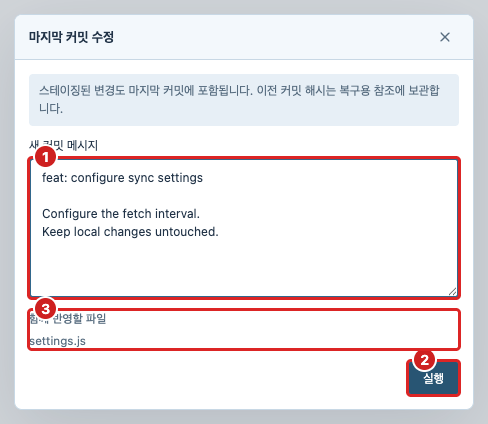
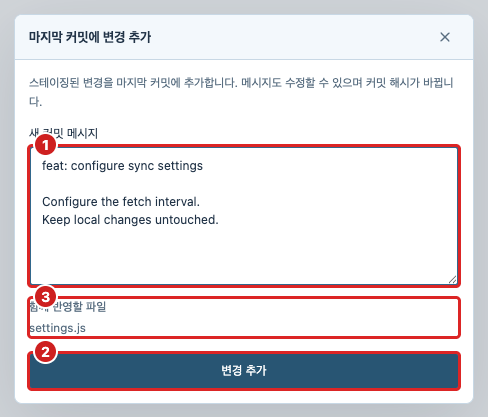
feat: separate message-only amendment from staged changes

diff --git a/public/advanced.js b/public/advanced.js
@@ -1,9 +1,9 @@
 Object.assign(commands,{
  resetPreview:['커밋으로 Reset',[['ref','대상 커밋','commits']]],resetJournal:['Reset 실행 취소·다시 실행',[]],
  discardPreview:['파일 변경 버리기',[['name','파일','files']]],recoveryList:['버린 변경 복구',[]],
- hunks:['부분 스테이징',[['name','파일','files']]],readText:['파일 편집',[['name','파일','files']]],conflictRead:['충돌 편집기',[['name','충돌 파일','conflicts']]],diffSides:['좌우 파일 비교',[['name','파일','files']]],ignoreFile:['파일 무시',[['name','추적하지 않는 파일 경로']]],rebasePlan:['인터랙티브 리베이스',[['base','편집할 커밋 바로 이전 참조','commits',false,'HEAD~3']]],amend:['마지막 커밋 수정',[['message','새 커밋 메시지','commitMessage']],'스테이징된 변경도 마지막 커밋에 포함됩니다. 이전 커밋 해시는 복구용 참조에 보관합니다.'],searchHistory:['전체 이력 메시지 검색',[['query','검색어']]],worktreeLock:['Worktree 잠금',[['path','작업 폴더','worktrees']]],worktreeUnlock:['Worktree 잠금 해제',[['path','작업 폴더','worktrees']]],submodules:['Submodule 상태',[]],submoduleUpdate:['Submodule 초기화·갱신',[],'저장소에 설정된 하위 저장소를 다운로드합니다.'],profileRead:['저장소 작성자 설정',[]]
+ hunks:['부분 스테이징',[['name','파일','files']]],readText:['파일 편집',[['name','파일','files']]],conflictRead:['충돌 편집기',[['name','충돌 파일','conflicts']]],diffSides:['좌우 파일 비교',[['name','파일','files']]],ignoreFile:['파일 무시',[['name','추적하지 않는 파일 경로']]],rebasePlan:['인터랙티브 리베이스',[['base','편집할 커밋 바로 이전 참조','commits',false,'HEAD~3']]],amendMessage:['커밋 메시지 수정',[['message','새 커밋 메시지','commitMessage']]],amend:['마지막 커밋에 변경 추가',[['message','새 커밋 메시지','commitMessage']]],searchHistory:['전체 이력 메시지 검색',[['query','검색어']]],worktreeLock:['Worktree 잠금',[['path','작업 폴더','worktrees']]],worktreeUnlock:['Worktree 잠금 해제',[['path','작업 폴더','worktrees']]],submodules:['Submodule 상태',[]],submoduleUpdate:['Submodule 초기화·갱신',[],'저장소에 설정된 하위 저장소를 다운로드합니다.'],profileRead:['저장소 작성자 설정',[]]
 });
-categories.push(['고급 편집',['resetPreview','resetJournal','discardPreview','recoveryList','hunks','readText','diffSides','conflictRead','ignoreFile','rebasePlan','amend','searchHistory']],['확장 · 설정',['worktreeLock','worktreeUnlock','submodules','submoduleUpdate','profileRead']]);
+categories.push(['고급 편집',['resetPreview','resetJournal','discardPreview','recoveryList','hunks','readText','diffSides','conflictRead','ignoreFile','rebasePlan','amendMessage','amend','searchHistory']],['확장 · 설정',['worktreeLock','worktreeUnlock','submodules','submoduleUpdate','profileRead']]);
 const advancedDialog=el('dialog');advancedDialog.className='advanced-dialog';advancedDialog.setAttribute('aria-label','고급 Git 편집');document.body.append(advancedDialog);
 function advancedFrame(title,kind='compact'){advancedDialog.dataset.dialogKind=kind;advancedDialog.replaceChildren();const body=el('div',undefined,'advanced-body');PgitUI.dialogFrame(advancedDialog,{title,body,canClose:()=>!working});if(!advancedDialog.open)advancedDialog.showModal();return body}
 async function applyAdvanced(action,data){if(working)return false;working=true;controls();try{state=await api(action,data);render();notify('변경을 적용했습니다.');return true}catch(e){notify(e.message);const error=el('p',e.message,'command-error');error.setAttribute('role','alert');advancedDialog.querySelector('.advanced-body')?.prepend(error);try{state=await api('state',{limit:historyLimit});render()}catch{}return false}finally{working=false;controls()}}
@@ -32,7 +32,7 @@ if(key==='rebasePlan'){const result=await api(key,data);const body=advancedFrame
 if(key==='profileRead'){const result=await api(key);const body=advancedFrame('이 저장소의 작성자');PgitCommandHelp.mount(body,'profileRead');const form=el('form');PgitUI.commandFormLayout(form);const inputs={};for(const name of ['name','email']){const label=el('label',name==='name'?'이름':'이메일');const input=el('input');input.type='text';input.required=true;input.value=result[name];input.setAttribute('aria-label',label.textContent);inputs[name]=input;label.append(input);form.append(label)}const sign=el('input');sign.type='checkbox';sign.checked=result.sign;const label=PgitUI.checkboxField('Git에 설정된 키로 커밋 서명',sign).element;const save=el('button','저장','primary');form.append(label,el('p','서명 키와 에이전트는 기존 Git 설정을 사용합니다.'),save);form.onsubmit=async e=>{e.preventDefault();if(await applyAdvanced('profileSave',{name:inputs.name.value,email:inputs.email.value,sign:sign.checked}))advancedDialog.close()};body.append(form);return}
 }catch(e){notify(e.message)}}
 const baseOpenCommand=openCommand;openCommand=async function(key){if(['profileRead','resetJournal','recoveryList'].includes(key)&&state&&!working){panel.close();await openAdvanced(key,{});const body=advancedDialog.querySelector('.advanced-body');if(body)PgitCommandHelp.mount(body,key);return}await baseOpenCommand(key);if(['resetPreview','resetJournal','discardPreview','recoveryList','hunks','readText','conflictRead','diffSides','rebasePlan'].includes(key)){const form=panel.querySelector('form');if(form)form.onsubmit=e=>{e.preventDefault();const data=Object.fromEntries(new FormData(form));openAdvanced(key,data)}}};
-const beforeAdvancedApi=api;api=function(action,data={}){if(action==='amend'&&!data.head)data={...data,head:state?.head};return beforeAdvancedApi(action,data)};
+const beforeAdvancedApi=api;api=function(action,data={}){if(['amend','amendMessage'].includes(action)&&!data.head)data={...data,head:state?.head};return beforeAdvancedApi(action,data)};
 // File actions stay close to the selected file.
 const fileActions=el('div',undefined,'file-actions');for(const [key,label] of [['discardPreview','변경 버리기'],['hunks','블록 스테이징'],['readText','편집'],['diffSides','좌우 비교'],['conflictRead','충돌 해결']]){const b=el('button',label);b.dataset.fileAction=key;if(key==='hunks')b.title='파일의 변경 중 원하는 블록이나 줄만 골라 스테이징합니다.';if(key==='readText')b.title='실제 작업 폴더 파일을 수정·저장합니다. 자동으로 스테이징하거나 커밋하지 않습니다.';b.onclick=()=>selected?openAdvanced(key,{name:selected,staged}):notify('파일을 선택하세요.');fileActions.append(b)}$('diff').before(fileActions);
 // Recent local workspaces are stored on this device only.
@@ -41,6 +41,7 @@ const beforeRecentRender=render;render=function(){beforeRecentRender();if(state)
 // Contextual Git actions preserve the graph as the main navigation surface.
 async function contextualCommand(key,values={}){
  if(working)return;
+ if(key==='amendMessage'&&values.head){await openCommand(key);if(panel.querySelector('form')?.dataset.amendHead!==values.head){panel.close();notify('HEAD가 변경되었습니다.')}return}
  if(key==='branchSwitch'&&values.name){
   if(values.name===state?.branch)return;
   if(await mutate(key,values)){scope=null;selectedHistoryRef=null;activeCommit=null;render();notify('브랜치 전환 완료')}return;
@@ -51,8 +52,8 @@ async function contextualCommand(key,values={}){
   try{const result=await api(key,values);if(!body.isConnected||!advancedDialog.open)return;if(key==='mergePreview')renderMergePreview(output,result);else output.replaceChildren(el('pre',result,'command-output'))}catch(error){if(body.isConnected)output.replaceChildren(PgitUI.message(error.message,{error:true}))}return;
  }
  await openCommand(key);for(const [name,value] of Object.entries(values)){const input=$('command-'+name);if(input){if(input.selectReference)await input.selectReference(value);else if(input.dataset.commitPicker)await PgitCommitPicker.select(input,value);else{input.value=value;input.dispatchEvent(new Event('change',{bubbles:true}))}}}}
-function contextActions(title,items){const body=advancedFrame(title,'menu');for(const [key,values] of items){const b=el('button',commands[key][0],'command-option');if(['branchSwitch','branchDelete'].includes(key)&&values.name&&(state?.branch===values.name||state?.worktrees?.some(w=>w.branch==='refs/heads/'+values.name))){b.disabled=true}b.onclick=()=>{advancedDialog.close();contextualCommand(key,values)};body.append(b)}}
+function contextActions(title,items){const body=advancedFrame(title,'menu');for(const [key,values] of items){const b=el('button',commands[key][0],'command-option');if(['branchSwitch','branchDelete'].includes(key)&&values.name&&(state?.branch===values.name||state?.worktrees?.some(w=>w.branch==='refs/heads/'+values.name))){b.disabled=true}if(key==='amendMessage'&&values.head!==state?.head){b.disabled=true;b.title='현재 브랜치의 마지막 커밋만 수정할 수 있습니다.'}b.onclick=()=>{advancedDialog.close();contextualCommand(key,values)};body.append(b)}}
 $('branches').addEventListener('contextmenu',event=>{const button=event.target.closest('.branchitem');if(!button)return;event.preventDefault();const name=button.dataset.ref.slice('refs/heads/'.length);contextActions(name,[['mergePreview',{ref:name}],['branchSwitch',{name}],['branchCreate',{ref:name}],['branchRename',{name}],['merge',{ref:name}],['rebase',{ref:name}],['branchDelete',{name}]])});
 $('branches').addEventListener('dblclick',event=>{const button=event.target.closest('.branchitem');if(button)contextualCommand('branchSwitch',{name:button.dataset.ref.slice('refs/heads/'.length)})});
-$('history').addEventListener('contextmenu',event=>{const row=event.target.closest('.historyrow');if(!row)return;event.preventDefault();activeCommit=row.dataset.hash;contextActions(activeCommit.slice(0,7),[['resetPreview',{ref:activeCommit}],['branchCreate',{ref:activeCommit}],['tagCreate',{ref:activeCommit}],['cherryPick',{ref:activeCommit}],['revert',{ref:activeCommit}],['compare',{to:activeCommit}],['rebasePlan',{base:activeCommit}]])});
+$('history').addEventListener('contextmenu',event=>{const row=event.target.closest('.historyrow');if(!row)return;event.preventDefault();activeCommit=row.dataset.hash;contextActions(activeCommit.slice(0,7),[['amendMessage',{head:activeCommit}],['resetPreview',{ref:activeCommit}],['branchCreate',{ref:activeCommit}],['tagCreate',{ref:activeCommit}],['cherryPick',{ref:activeCommit}],['revert',{ref:activeCommit}],['compare',{to:activeCommit}],['rebasePlan',{base:activeCommit}]])});
 const beforeWipRender=renderHistory;renderHistory=function(){beforeWipRender();if(state?.files.length){const wip=el('button','WIP · '+state.files.length+'개 변경 — 작업 폴더 열기','wip-row');wip.onclick=()=>tab('changes');$('historyScroll')?.prepend(wip)}};

diff --git a/public/workspace.js b/public/workspace.js
@@ -52,10 +52,10 @@ async function showCommandRead(key,data={}){
  const valid=()=>panel.open&&body.isConnected&&state?.root===root;
  try{const result=await api(key,data);if(!valid())return;const text=typeof result==='string'?result:JSON.stringify(result,null,2);output.replaceChildren(text?.trim()?el('pre',text,'command-output'):PgitUI.message('표시할 항목이 없습니다.'))}catch(error){if(valid())output.replaceChildren(PgitUI.message(error.message,{error:true}))}
 }
-async function openCommand(key){if(working)return;if(!state&&!['init','clone'].includes(key)){notify('먼저 저장소를 여세요.');return}if(key==='remoteList')return showRemoteAddresses();if(['reflog','submodules'].includes(key))return showCommandRead(key);let amend=null;if(key==='amend'){try{amend=await api('amendInfo')}catch(e){notify(e.message);return}}const [title,fields,warning]=commands[key];panel.dataset.dialogKind='form';panel.replaceChildren();const form=el('form',undefined,'command-body');form.dataset.command=key;if(key!=='merge')PgitUI.commandFormLayout(form,{inline:fields.length===1&&!['cherryPick','init','clone'].includes(key)&&fields[0][2]!=='commitMessage'});PgitUI.dialogFrame(panel,{title,body:form,canClose:()=>!working});PgitCommandHelp.mount(form,key);if(warning)form.append(el('p',warning,'command-notice'));const error=el('p',undefined,'command-error');error.setAttribute('role','alert');const inputs=amend?{head:{value:amend.head}}:{};let tracked=[];if(fields.some(f=>f[2]==='files'))try{tracked=await api('trackedFiles')}catch(e){notify(e.message);return}
+async function openCommand(key){if(working)return;if(!state&&!['init','clone'].includes(key)){notify('먼저 저장소를 여세요.');return}if(key==='remoteList')return showRemoteAddresses();if(['reflog','submodules'].includes(key))return showCommandRead(key);let amend=null;if(['amend','amendMessage'].includes(key)){try{amend=await api('amendInfo')}catch(e){notify(e.message);return}}const [title,fields,warning]=commands[key];panel.dataset.dialogKind='form';panel.replaceChildren();const form=el('form',undefined,'command-body');form.dataset.command=key;if(amend)form.dataset.amendHead=amend.head;if(key!=='merge')PgitUI.commandFormLayout(form,{inline:fields.length===1&&!['cherryPick','init','clone'].includes(key)&&fields[0][2]!=='commitMessage'});PgitUI.dialogFrame(panel,{title,body:form,canClose:()=>!working});PgitCommandHelp.mount(form,key);if(warning)form.append(el('p',warning,'command-notice'));const error=el('p',undefined,'command-error');error.setAttribute('role','alert');const inputs=amend?{head:{value:amend.head}}:{};let tracked=[];if(fields.some(f=>f[2]==='files'))try{tracked=await api('trackedFiles')}catch(e){notify(e.message);return}
 for(const [name,label,source,optional,initial] of fields){const choices=source==='pullStrategies'?[['ff-only','Fast-forward only'],['merge','Merge'],['rebase','Rebase']]:source==='mergeRefs'?[...state.branches.map(b=>[b.name,b.name]),...state.refs.filter(r=>r.name.startsWith('refs/remotes/')&&!r.name.endsWith('/HEAD')).map(r=>[r.name,r.name.slice(13)])]:source==='branches'?state.branches.map(b=>[b.name,b.name]):source==='remotes'?state.remotes.map(n=>[n,n]):source==='stashes'?state.stashes.map(s=>[s.hash,s.name+' · '+s.title]):source==='tags'?state.refs.filter(r=>r.name.startsWith('refs/tags/')).map(r=>[r.name.slice(10),r.name.slice(10)]):source==='conflicts'?state.files.filter(f=>f.conflict).map(f=>[f.name,f.name]):source==='files'?tracked.map(n=>[n,n]):source==='worktrees'?state.worktrees.filter(w=>w.path!==state.root).map(w=>[w.path,w.branch?.replace(/^refs\/heads\//,'')||PgitPaths.basename(w.path)]):null;
 const input=source==='commits'?PgitCommitPicker.create(state,initial||activeCommit||state.head):el(source==='commitMessage'?'textarea':choices?'select':'input');input.id='command-'+name;input.name=name;if(name==='url')input.placeholder='https://gitlab.example.com/team/project.git';input.required=!optional;if(source==='commitMessage'){input.value=amend.message;input.className='commit-message-input';input.rows=6;input.maxLength=4000}else if(source==='commits'){}else if(choices){for(const [v,t] of choices){const option=el('option',t);option.value=v;input.append(option)}if(!choices.length){input.append(el('option','항목 없음'));input.disabled=true}}else{input.type='text';input.value=source==='selected'?activeCommit||'':source||''}const lab=el('label',label);lab.htmlFor=input.id;form.append(lab,input);inputs[name]=input}
-if(amend){const summary=el('div',undefined,'amend-summary');summary.append(el('strong',amend.files.length?'함께 반영할 파일':'스테이징된 변경 없음 · 메시지만 수정'));for(const name of amend.files)summary.append(el('div',name,'literal-data'));form.append(summary)}const submit=el('button',key==='init'?'만들기':key==='clone'?'복제':key==='branchSwitch'?'브랜치 전환':key==='resetPreview'?'변경 내용 확인':'실행','primary');submit.type='submit';submit.disabled=Object.values(inputs).some(i=>i.disabled);form.append(error,submit);form.onsubmit=async e=>{e.preventDefault();if(working)return;const data=Object.fromEntries(Object.entries(inputs).map(([k,v])=>[k,v.value]));if(key==='merge'&&form.mergePreview){data.expectedHead=form.mergePreview.head;data.expectedTarget=form.mergePreview.target}submit.disabled=true;working=true;controls();try{const result=await api(key,{...data,limit:historyLimit});if(typeof result==='string'||Array.isArray(result)){panel.dataset.dialogKind=key==='remoteList'?'list':'output';panel.replaceChildren();const pre=el('pre',typeof result==='string'?result:result.join('\n'),'command-output');PgitUI.dialogFrame(panel,{title,body:pre,canClose:()=>!working})}else{state=result;scope=null;render();panel.close();notify(title+' 완료')}}catch(e){error.textContent=e.message;try{if(state){state=await api('state',{limit:historyLimit});render()}}catch{} }finally{working=false;controls();submit.disabled=false}};if(['init','clone'].includes(key))PgitFolderPicker.mount({input:inputs.path,submit,error,url:inputs.url});PgitReferenceFields.mount({key,form,inputs,submit,error,snapshot:state});if(!panel.open)panel.showModal();Object.values(inputs).find(input=>typeof input.focus==='function')?.focus();}
+if(amend){const summary=el('div',undefined,'amend-summary');summary.append(el('strong',key==='amendMessage'?'스테이징된 변경은 포함하지 않습니다.':amend.files.length?'함께 반영할 파일':'스테이징한 변경이 없습니다.'));for(const name of key==='amendMessage'?[]:amend.files)summary.append(el('div',name,'literal-data'));form.append(summary)}const submit=el('button',key==='amendMessage'?'메시지 수정':key==='amend'?'변경 추가':key==='init'?'만들기':key==='clone'?'복제':key==='branchSwitch'?'브랜치 전환':key==='resetPreview'?'변경 내용 확인':'실행','primary');submit.type='submit';submit.disabled=(key==='amend'&&!amend.files.length)||Object.values(inputs).some(i=>i.disabled);form.append(error,submit);form.onsubmit=async e=>{e.preventDefault();if(working)return;const data=Object.fromEntries(Object.entries(inputs).map(([k,v])=>[k,v.value]));if(key==='merge'&&form.mergePreview){data.expectedHead=form.mergePreview.head;data.expectedTarget=form.mergePreview.target}submit.disabled=true;working=true;controls();try{const result=await api(key,{...data,limit:historyLimit});if(typeof result==='string'||Array.isArray(result)){panel.dataset.dialogKind=key==='remoteList'?'list':'output';panel.replaceChildren();const pre=el('pre',typeof result==='string'?result:result.join('\n'),'command-output');PgitUI.dialogFrame(panel,{title,body:pre,canClose:()=>!working})}else{state=result;scope=null;render();panel.close();notify(title+' 완료')}}catch(e){error.textContent=e.message;try{if(state){state=await api('state',{limit:historyLimit});render()}}catch{} }finally{working=false;controls();submit.disabled=false}};if(['init','clone'].includes(key))PgitFolderPicker.mount({input:inputs.path,submit,error,url:inputs.url});PgitReferenceFields.mount({key,form,inputs,submit,error,snapshot:state});if(!panel.open)panel.showModal();Object.values(inputs).find(input=>typeof input.focus==='function')?.focus();}
 function renderExtras(){if(!state)return;syncLabel.textContent=state.upstream?`${state.upstream} · ↑${state.ahead} ↓${state.behind}`:'추적 브랜치 없음';banner.replaceChildren();banner.hidden=!state.operation;if(state.operation){banner.append(el('strong',state.operation+' 진행 중'));const conflicts=state.files.filter(f=>f.conflict);if(conflicts.length){const edit=el('button','충돌 편집기 열기');edit.onclick=()=>conflicts.length===1?openAdvanced('conflictRead',{name:conflicts[0].name}):openCommand('conflictRead');banner.append(edit)}for(const key of ['continue','abort']){const b=el('button',commands[key][0]);b.disabled=key==='continue'&&!!conflicts.length;b.onclick=()=>openCommand(key);banner.append(b)}}extrasPanel.replaceChildren();const remoteRefs=state.refs.filter(r=>r.name.startsWith('refs/remotes/')&&!r.name.endsWith('/HEAD'));extrasPanel.append(el('div','REMOTE','caption'));for(const remote of [...new Set(remoteRefs.map(r=>r.name.slice(13).split('/')[0]))]){const group=el('details');group.className='remote-group';group.open=true;const summary=el('summary');summary.append(el('span',remote,'branch-folder-name literal-data'),el('span',String(remoteRefs.filter(r=>r.name.startsWith('refs/remotes/'+remote+'/')).length),'folder-count'));const children=el('div',undefined,'branch-folder-children');group.append(summary,children);for(const r of remoteRefs.filter(r=>r.name.startsWith('refs/remotes/'+remote+'/'))){const b=el('button',r.name.slice(14+remote.length),'nav remote-branch');b.dataset.ref=r.name;b.title=r.name.slice(13);b.onclick=()=>chooseHistoryRef(r.name,r.hash);children.append(b)}extrasPanel.append(group)}if(!remoteRefs.length)extrasPanel.append(el('div','원격 브랜치 없음','branch-empty'));extrasPanel.append(el('div','TAGS','caption'));for(const r of state.refs.filter(r=>r.name.startsWith('refs/tags/'))){const b=el('button',undefined,'nav sidebar-ref tag-ref');b.append(el('span',r.name.slice(10),'literal-data'));b.dataset.ref=r.name;b.title=r.name.slice(10);b.prepend(PgitIcons.icon('tag'));b.onclick=()=>chooseHistoryRef(r.name,r.hash);extrasPanel.append(b)}extrasPanel.append(el('div',`STASHES · ${state.stashes.length}`,'caption'));for(const s of state.stashes){const b=el('button',undefined,'nav sidebar-ref stash-ref');b.append(PgitIcons.icon('stash'),el('span',s.title,'literal-data'));b.title=s.name+' · '+s.title;b.dataset.stash=s.hash;b.onclick=()=>contextualCommand('stashDiff',{hash:s.hash});extrasPanel.append(b)}}
 const baseRender=render;render=function(){baseRender();renderExtras();syncHistoryScope()};
 const baseControls=controls;controls=function(){baseControls();document.querySelectorAll('[data-repo-command]').forEach(b=>b.disabled=working||!state)};

diff --git a/public/command-help.js b/public/command-help.js
@@ -361,8 +361,16 @@ const catalog={
     "es": "Planifica y aplica reordenar, renombrar, combinar u omitir commits; se reescribe el historial.",
     "fr": "Planifie et applique la réorganisation, le renommage, la fusion ou la suppression de commits ; l’historique est réécrit."
   },
+  "amendMessage": {
+    "ko": "마지막 커밋의 메시지만 수정합니다. 파일 내용과 스테이징된 변경은 유지되며 커밋 해시는 바뀝니다.",
+    "en": "Change only the last commit message. File contents and staged changes are preserved; the commit hash changes.",
+    "ja": "最後のコミットメッセージのみ変更します。ファイルとステージ済み変更は保持され、ハッシュが変わります。",
+    "zh-CN": "仅修改最后一个提交的消息。文件和暂存更改保持不变，提交哈希会改变。",
+    "es": "Cambia solo el mensaje del último commit. Conserva archivos y cambios preparados; cambia el hash.",
+    "fr": "Modifie uniquement le message du dernier commit. Les fichiers et changements indexés sont conservés ; le hash change."
+  },
   "amend": {
-    "ko": "마지막 커밋의 기존 메시지를 수정합니다. 스테이징된 변경도 함께 포함되며 커밋 해시가 바뀝니다.",
+    "ko": "스테이징된 변경을 마지막 커밋에 추가합니다. 메시지도 수정할 수 있으며 커밋 해시가 바뀝니다.",
     "en": "Edit the last commit’s message, including staged changes; its hash changes.",
     "ja": "最後のコミットのメッセージを編集します。ステージ済み変更も含まれ、ハッシュが変わります。",
     "zh-CN": "修改最后一个提交的消息，同时包含暂存的更改，提交哈希会改变。",

diff --git a/public/locales.js b/public/locales.js
@@ -40,6 +40,12 @@ const languages=[
 ];
 const columns=["ja","zh-CN","es","fr"];
 const messages={
+"Edit commit message":["コミットメッセージを編集", "修改提交消息", "Editar mensaje del commit", "Modifier le message du commit"],
+"Add changes to last commit":["最後のコミットに変更を追加", "向最后一个提交添加更改", "Añadir cambios al último commit", "Ajouter des changements au dernier commit"],
+"Staged changes are not included.":["ステージ済み変更は含まれません。", "不包含暂存的更改。", "No se incluyen los cambios preparados.", "Les changements indexés ne sont pas inclus."],
+"Update message":["メッセージを更新", "更新消息", "Actualizar mensaje", "Modifier le message"],
+"Add changes":["変更を追加", "添加更改", "Añadir cambios", "Ajouter les changements"],
+"Only the current branch’s last commit can be edited here.":["ここでは現在のブランチの最後のコミットのみ編集できます。", "此处只能修改当前分支的最后一个提交。", "Aquí solo puedes editar el último commit de la rama actual.", "Seul le dernier commit de la branche actuelle peut être modifié ici."],
 "Open on GitHub":["GitHub で開く","在 GitHub 中打开","Abrir en GitHub","Ouvrir sur GitHub"],
 "Post comment":["コメントを投稿","发表评论","Publicar comentario","Publier le commentaire"],
 "Comment posted":["コメントを投稿しました","评论已发布","Comentario publicado","Commentaire publié"],

diff --git a/public/i18n.js b/public/i18n.js
@@ -1,6 +1,12 @@
 (() => {
 // UI copy only. Repository names, commit messages, code, paths and command output stay verbatim.
 const pairs=`
+커밋 메시지 수정|Edit commit message
+마지막 커밋에 변경 추가|Add changes to last commit
+스테이징된 변경은 포함하지 않습니다.|Staged changes are not included.
+메시지 수정|Update message
+변경 추가|Add changes
+현재 브랜치의 마지막 커밋만 수정할 수 있습니다.|Only the current branch’s last commit can be edited here.
 GitHub에서 열기|Open on GitHub
 댓글 게시|Post comment
 댓글 게시 완료|Comment posted
